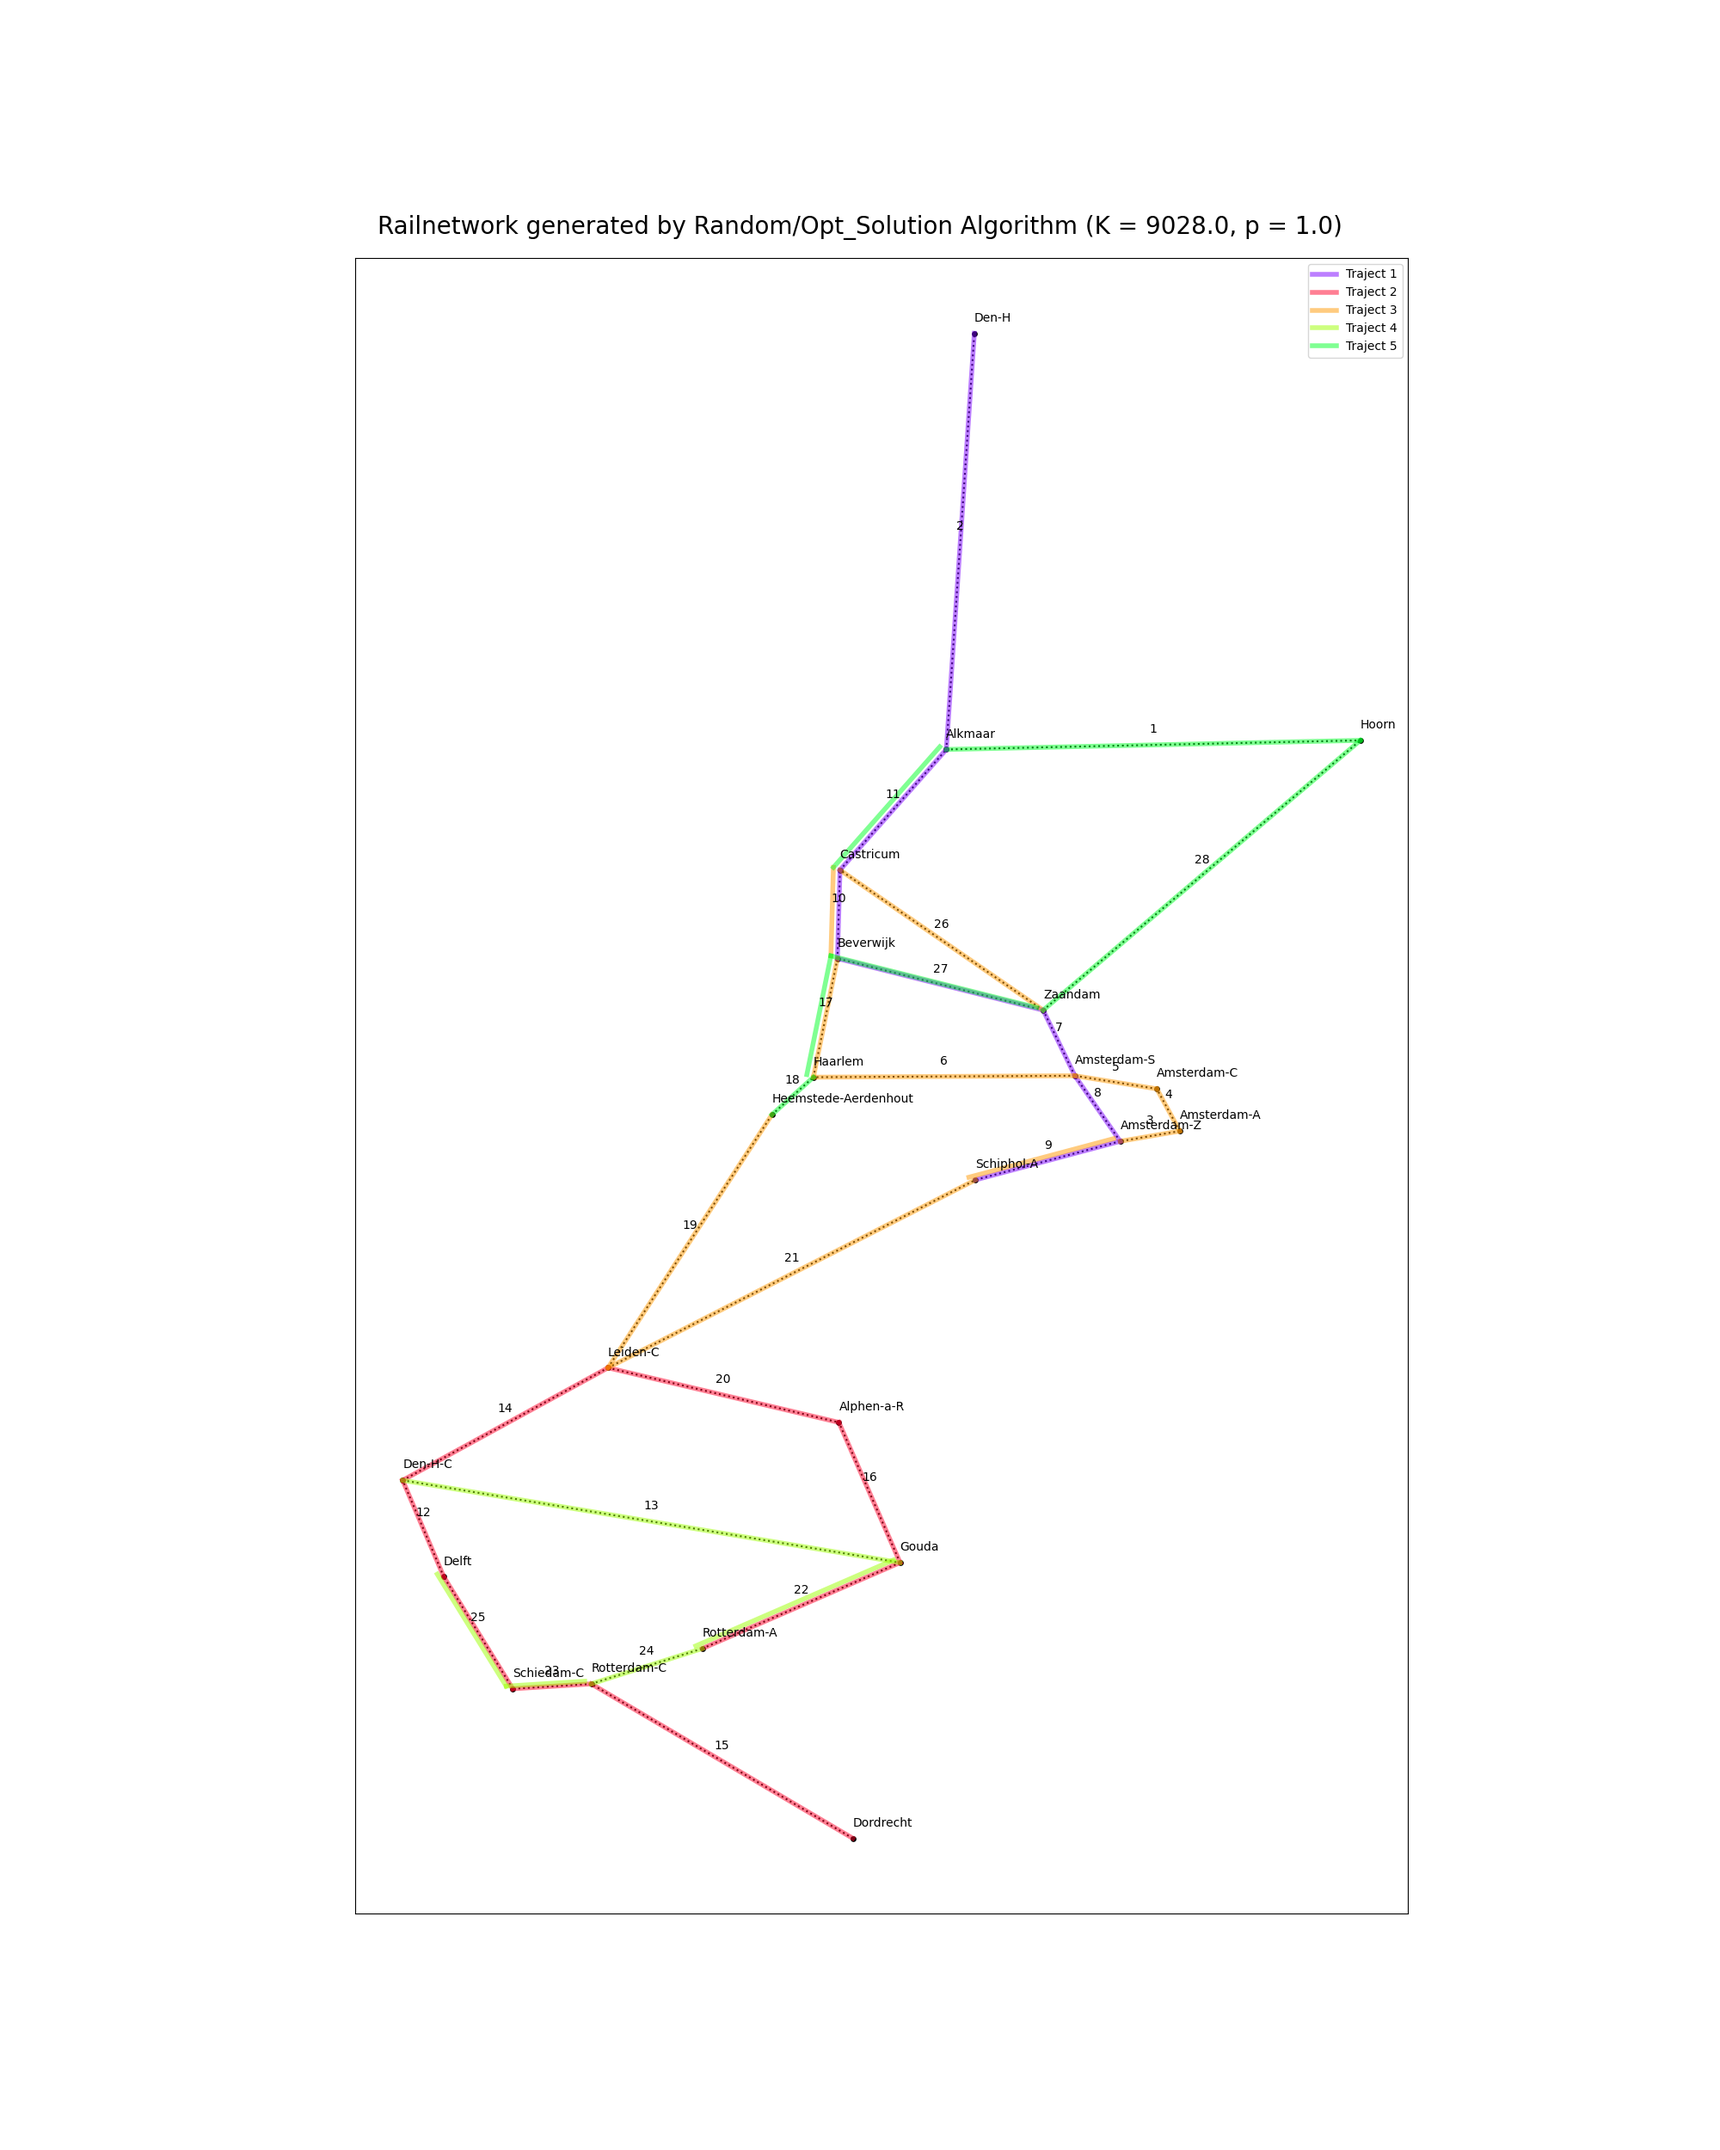
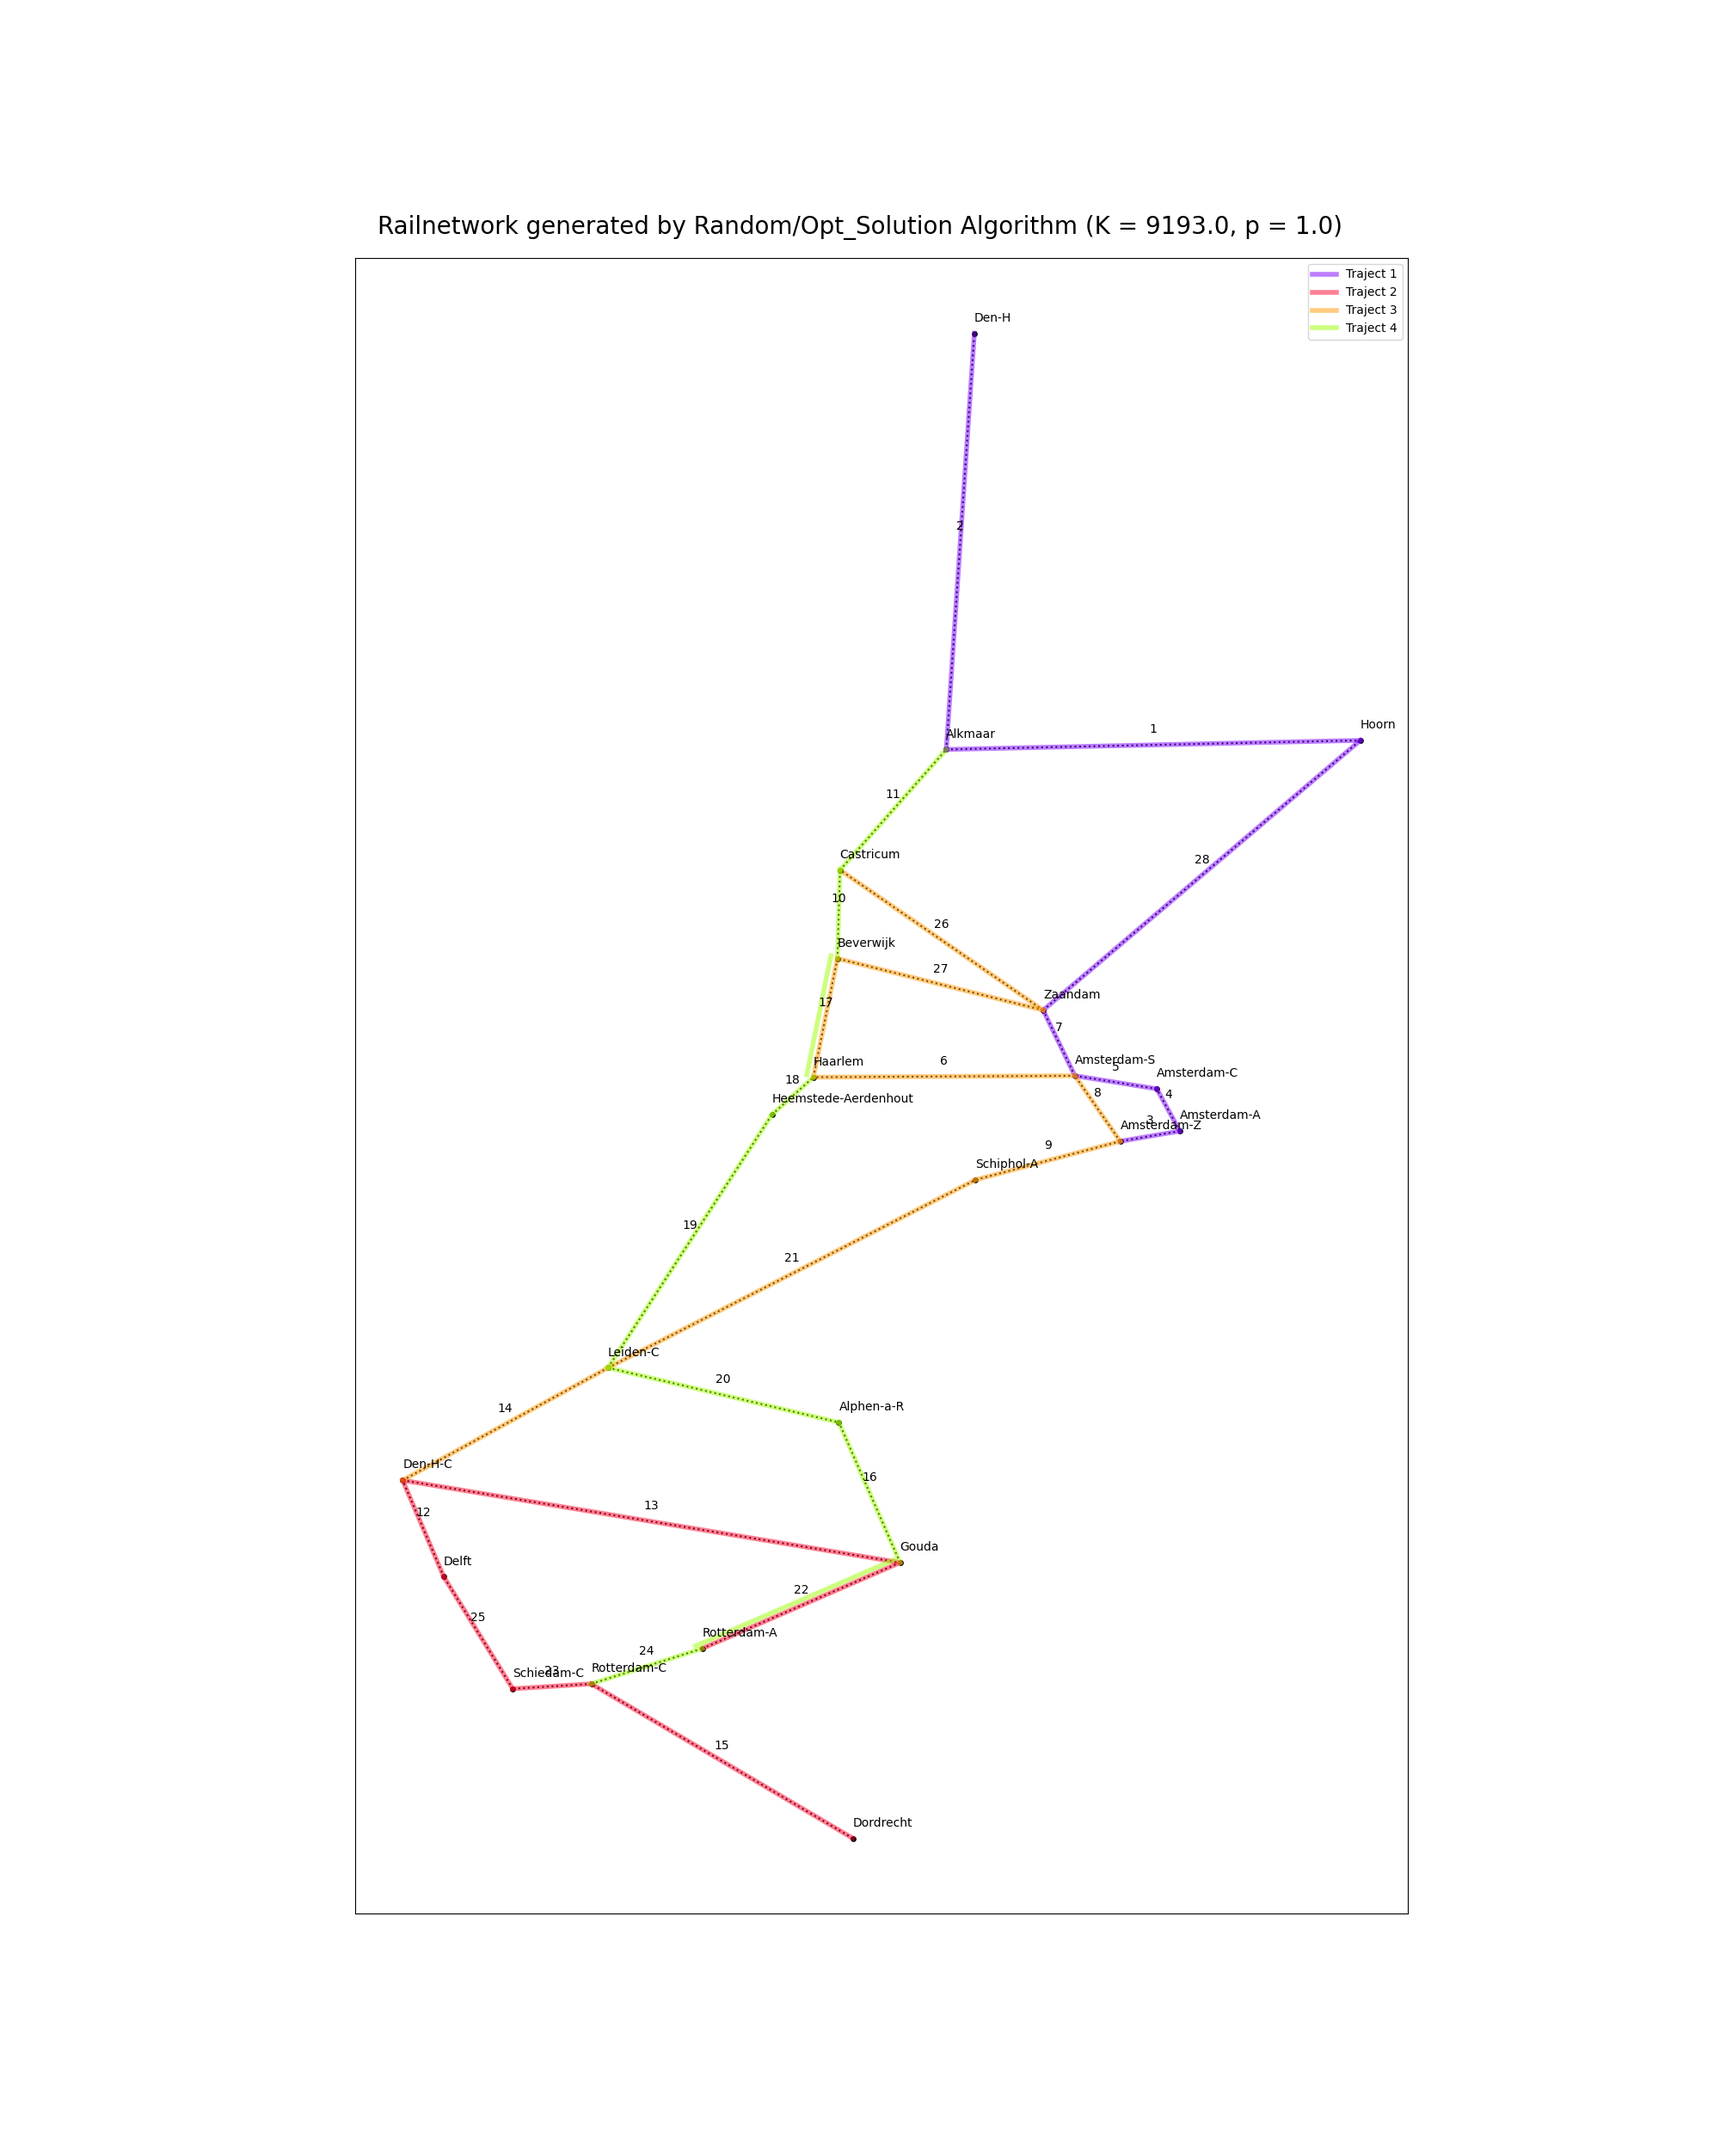
update hillclimber

diff --git a/code/algorithms/hillclimber.py b/code/algorithms/hillclimber.py
@@ -70,7 +70,7 @@ class Hillclimber:
         graph.lijnvoering.trajecten.remove(traject_to_remove)
         graph.update_variables()
 
-        # update quality-goalfunction
+        # update quality-goalfunction of Lijnvoering
         graph.lijnvoering_kwaliteit(graph.used_connections, \
                                         graph.available_connections, \
                                         graph.lijnvoering.trajecten)
@@ -82,24 +82,24 @@ class Hillclimber:
         Remove traject with lowest K from Lijnvoering
         """
         
+        # start with first traject as worse traject
         bad_traject = graph.lijnvoering.trajecten[0]
         lowest_K = self.partial_K(bad_traject)
 
         # find traject with lowest K
         for traject in graph.lijnvoering.trajecten:
 
-            partial_K = self.partial_K(traject)
-
-            # replace badest traject if partial_K lowest
-            if partial_K < lowest_K:
-                lowest_K = partial_K
+            # replace badest traject if partial_K lower 
+            if self.partial_K(traject) < lowest_K:
+                lowest_K = self.partial_K(traject)
                 bad_traject = traject
         
         # remove traject from lijnvoering
         print(f"remove: {bad_traject.stations}")
         graph.lijnvoering.trajecten.remove(bad_traject)
         graph.update_variables()
-        # update quality-goalfunction
+
+        # update quality-goalfunction of Lijnvoering
         graph.lijnvoering_kwaliteit(graph.used_connections, \
                                         graph.available_connections, \
                                         graph.lijnvoering.trajecten)
@@ -111,14 +111,9 @@ class Hillclimber:
         Add new traject to Lijnvoering till solution is valid
         """
 
-        n = 0 
-        while True: 
-
-            # if previous solution was invalid, remove from Lijnvoering
-            if n > 0:
-                graph.lijnvoering.trajecten.pop()
-                graph.update_variables()
-            n += 1
+        # create new solutions till valid one is found
+        valid_solution = False
+        while valid_solution == False: 
 
             # find stations with one connection
             start_stations = help.begin_stations(graph)
@@ -127,10 +122,14 @@ class Hillclimber:
             help.new_traject(graph, start_stations, random.choice, self.prefer_unused_connection)
             print(f"add: {graph.lijnvoering.trajecten[-1].stations}")
 
+            # check whether valid Lijnvoering, if not remove newly added Traject
             if help.visited_all_stations(graph):
-                break
+                valid_solution = True
+            else:
+                graph.lijnvoering.trajecten.pop()
+                graph.update_variables()
         
-        # add quality-goalfunction
+        # add quality-goalfunction to Lijnvoering
         graph.lijnvoering_kwaliteit(graph.used_connections, \
                                         graph.available_connections, \
                                         graph.lijnvoering.trajecten)
@@ -141,7 +140,7 @@ class Hillclimber:
     def run(self):
         """
         Algorithm that implements the hillclimber algorithm:
-        - It start with a valid Lijnvoering generated by the random algorithm
+        - It start with a valid Lijnvoering generated by the random or greedy algorithm
         - It removes a Traject from this Lijnvoering
         - It creates a new valid Trajects and adds this to the Lijnvoering
         - If K_new_Lijnvoering > K_old_Lijnvoering, the new Lijnvoering is kept
@@ -149,19 +148,16 @@ class Hillclimber:
         """
         print('\nloading hillclimber constructed lijnvoering...\n')
         
-        # set random start state as default
-        current_state = self.random_start_state()
-
-        all_opt_K = dict()
-
-        # retrieve random valid start state 
-        if self.alg_choice == "R" or self.alg_choice == "RANDOM":
+        # generate valid start state
+        if self.alg_choice.upper() == "R" or self.alg_choice.upper() == "RANDOM":
             current_state = self.random_start_state()
-        # retrieve greedy start state
-        elif self.alg_choice == "G" or self.alg_choice == "GREEDY":
-            current_state =  self.greedy_start_state()    
+        elif self.alg_choice.upper() == "G" or self.alg_choice.upper() == "GREEDY":
+            current_state = self.greedy_start_state()
+
+        # save all optimal K in a dictionary
+        all_opt_K = dict() 
     	
-        # for x iterations:
+        # for i iterations:
         i = 0
         while i < self.iterations:
             i += 1
@@ -170,27 +166,33 @@ class Hillclimber:
             new_graph = copy.deepcopy(current_state)
 
             # optional print statement
-            print()
+            print("\nCurrent:")
             for traject in new_graph.lijnvoering.trajecten:
                 print("Traject", new_graph.lijnvoering.trajecten.index(traject), "\n", ", ".join(traject.stations))
             print()
             print(f"current optimal K: {new_graph.K}")
 
-            # remove traject with lowest K from Lijnvoering
+            # remove traject from Lijnvoering
             if self.remove_traject.upper() == "K":
                 new_graph = self.remove_traject_lowest_K(new_graph)
-            else:
+            elif self.remove_traject.upper() == "R":
                 new_graph = self.remove_traject_random(new_graph)
 
             # optional print statement
-            print()
+            print("\nRemoved:")
             for traject in new_graph.lijnvoering.trajecten:
                 print("Traject", new_graph.lijnvoering.trajecten.index(traject), "\n", ", ".join(traject.stations))
             print()
             print(f"K when traject removed: {new_graph.K}")
 
-            # add new traject till valid solution is found
+            # add new traject till valid Lijnvoering is created
             new_graph = self.add_new_traject(new_graph)
+
+             # optional print statement
+            print("\nNew:")
+            for traject in new_graph.lijnvoering.trajecten:
+                print("Traject", new_graph.lijnvoering.trajecten.index(traject), "\n", ", ".join(traject.stations))
+            print()
             print(f"newly added K: {new_graph.K}")
 
             # if K has increased, update current state
@@ -217,4 +219,4 @@ class Hillclimber:
             vis.visualise_solution_compact(self.graph, 'Hillclimber')
 
             # create visualisation of optimal K improvement
-            vis.visualise_opt_K_improvement(all_opt_K, 'Hillclimber')
+            vis.visualise_opt_K_improvement(all_opt_K, 'Hillclimber', self.alg_choice, self.start_iterations, self.remove_traject)

diff --git a/main.py b/main.py
@@ -1,4 +1,6 @@
 import sys
+import time
+import pickle
 
 from code.classes import graph
 from code.visualisation import visualise as vis
@@ -6,6 +8,7 @@ from code.algorithms import randomise
 from code.algorithms import greedy as gr
 from code.algorithms import hillclimber as hc
 from code.other import calculate_statespace as css
+
 
 
 def main():
@@ -61,6 +64,8 @@ def main():
     vis.visualise_start(railway_map, map_name)
 
     #--------------------------------------- Implement Algorithms ----------------------------------------
+    tic = time.perf_counter()
+
     if algorithm.upper() == "R" or algorithm.upper() == "RANDOM":
 
         # Question 1.1
@@ -92,15 +97,12 @@ def main():
             print("Traject", greedy.graph.lijnvoering.trajecten.index(traject), "\n", ", ".join(traject.stations))
 
     elif algorithm.upper() == "HC" or algorithm.upper() == "HILLCLIMBER":
-        alg_choice = input("Select algorithm for initial solution: random (return R) or greedy (return G): ").upper()
+        alg_choice = input("Select algorithm for initial solution: random (return r) or greedy (return g): ").upper()
         start_iterations = input("Type number of random/greedy iterations to generate start state: ")
         remove_traject = input("Would you like to remove traject with lowest K (return k) or random traject (return r)?: ")
 
-        if alg_choice == "R" or alg_choice == "RANDOM":
-            hillclimber = hc.Hillclimber(railway_map, prefer_unused_connection, save_output, alg_choice, remove_traject, int(iterations), int(start_iterations))
-        elif alg_choice == "G" or alg_choice == "GREEDY":
-            hillclimber = hc.Hillclimber(railway_map, prefer_unused_connection, save_output, alg_choice, remove_traject, int(iterations), int(start_iterations))
-        
+
+        hillclimber = hc.Hillclimber(railway_map, prefer_unused_connection, save_output, alg_choice, remove_traject, int(iterations), int(start_iterations))
         hillclimber.run()
         final_graph = hillclimber.graph
 
@@ -112,6 +114,13 @@ def main():
     else: 
         sys.exit("Algorithm not (yet) implemented")
 
+    toc = time.perf_counter()
+
+    print(f"Algorithm runned for {toc - tic:0.4f} seconds / {(toc - tic)/60:0.4f} minutes")
+
+    ## optional pickle dumping
+    # pickle.dump(final_graph, open( "save.p", "wb" ) )
+    # favorite_color = pickle.load( open( "save.p", "rb" ) )
 
 if __name__ == '__main__':
 

diff --git a/code/visualisation/visualise.py b/code/visualisation/visualise.py
@@ -345,7 +345,7 @@ def visualise_steekproef_by_trajects(dict_K):
     fig.savefig(f"plots/steekproef_pro_trajects")
 
    
-def visualise_opt_K_improvement(all_opt_K, algorithm_name):
+def visualise_opt_K_improvement(all_opt_K, algorithm_name, start_alg = None, start_it = None, random_or_K = None):
     """
     Visualize how the K value improves during the iterations
     """
@@ -354,6 +354,20 @@ def visualise_opt_K_improvement(all_opt_K, algorithm_name):
     plt.plot(all_opt_K.keys(), all_opt_K.values())
     plt.xlabel('iterations', fontsize = 20)
     plt.ylabel('K', fontsize = 20)
-
-    fig.suptitle(f"Improvement of K after {len(all_opt_K.keys())} iterations using {algorithm_name} algorithm", fontsize = 25, y = 0.93)
+    
+    if algorithm_name == 'Hillclimber':
+        if start_alg.upper() == "R":
+            start_alg = "Random"
+        else:
+            start_alg = "Greedy"
+        
+        if random_or_K.upper() == "R":
+            random_or_K = "Random Traject"
+        else:
+            random_or_K = "Traject with lowest K"
+        fig.suptitle(f"Improvement of K after {len(all_opt_K.keys())} iterations using {algorithm_name} algorithm \n \
+        start state generated by {start_alg} (n = {start_it}) and {random_or_K} removed", fontsize = 25, y = 0.93)
+    else:
+        fig.suptitle(f"Improvement of K after {len(all_opt_K.keys())} iterations using {algorithm_name} algorithm", fontsize = 25, y = 0.93)
+    
     fig.savefig(f"plots/Opt_K_Improvement_{algorithm_name}")
